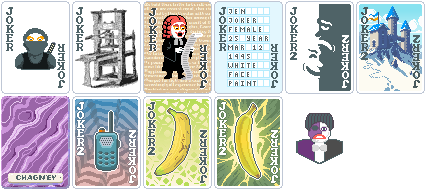
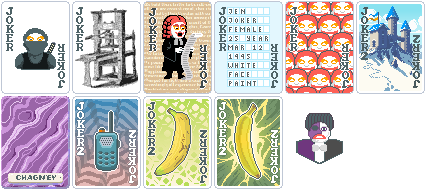
Added Hivemind Joker

Changed region(s): [[0.6714, 0.0, 0.8545, 0.5]]

diff --git a/CREDITS.md b/CREDITS.md
@@ -2,12 +2,13 @@ Programming:
  - OmnipotentEntity: All so far
 
 Ideas:
+ - crittykatie: Census
+ - liz\_leziari: Hivemind
  - Mathman2028: Template
  - OmnipotentEntity: Ninja, Chimera
- - /u/yellow-hammer: Filibuster
  - unknownusergd: Student Loan Debt
- - crittykatie: Census
+ - /u/yellow-hammer: Filibuster
 
 Art:
- - OmnipotentEntity: Ninja, Template, Chimera, Census
+ - OmnipotentEntity: Ninja, Template, Chimera, Census, Hivemind
  - /u/yellow-hammer: Filibuster
